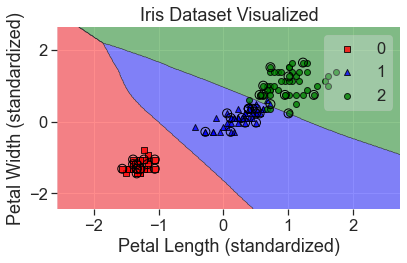
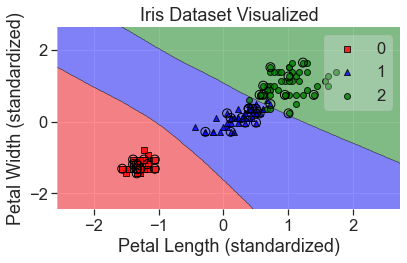
ims?

diff --git a/_posts/2016-03-11-Visualize-shallow-learning.md b/_posts/2016-03-11-Visualize-shallow-learning.md
@@ -97,8 +97,8 @@ y_str[y_str == '2'] = 'green'
 
 ```python
 plt.scatter(X['petal_length'], X['petal_width'], c=y_str)
-plt.xlim(0, 8)
-plt.ylim(-1, 3.5)
+plt.xlim(0, 7.9)
+plt.ylim(-0.9, 3.5)
 add_labels()
 ```
 
@@ -643,7 +643,7 @@ print(
 print(mlp_grid.best_estimator_)
 ```
 
-    MLPClassifier(alpha=10.0, max_iter=2000)
+    MLPClassifier(alpha=10.0, learning_rate_init=0.01)
     
 
 
@@ -726,3 +726,4 @@ ax = sns.stripplot(x='Model', y='Accuracy', data=df, color="black", jitter=0.1, 
     
 ![png](2016-03-11-Visualize-shallow-learning_files/2016-03-11-Visualize-shallow-learning_101_0.png)
     
+
